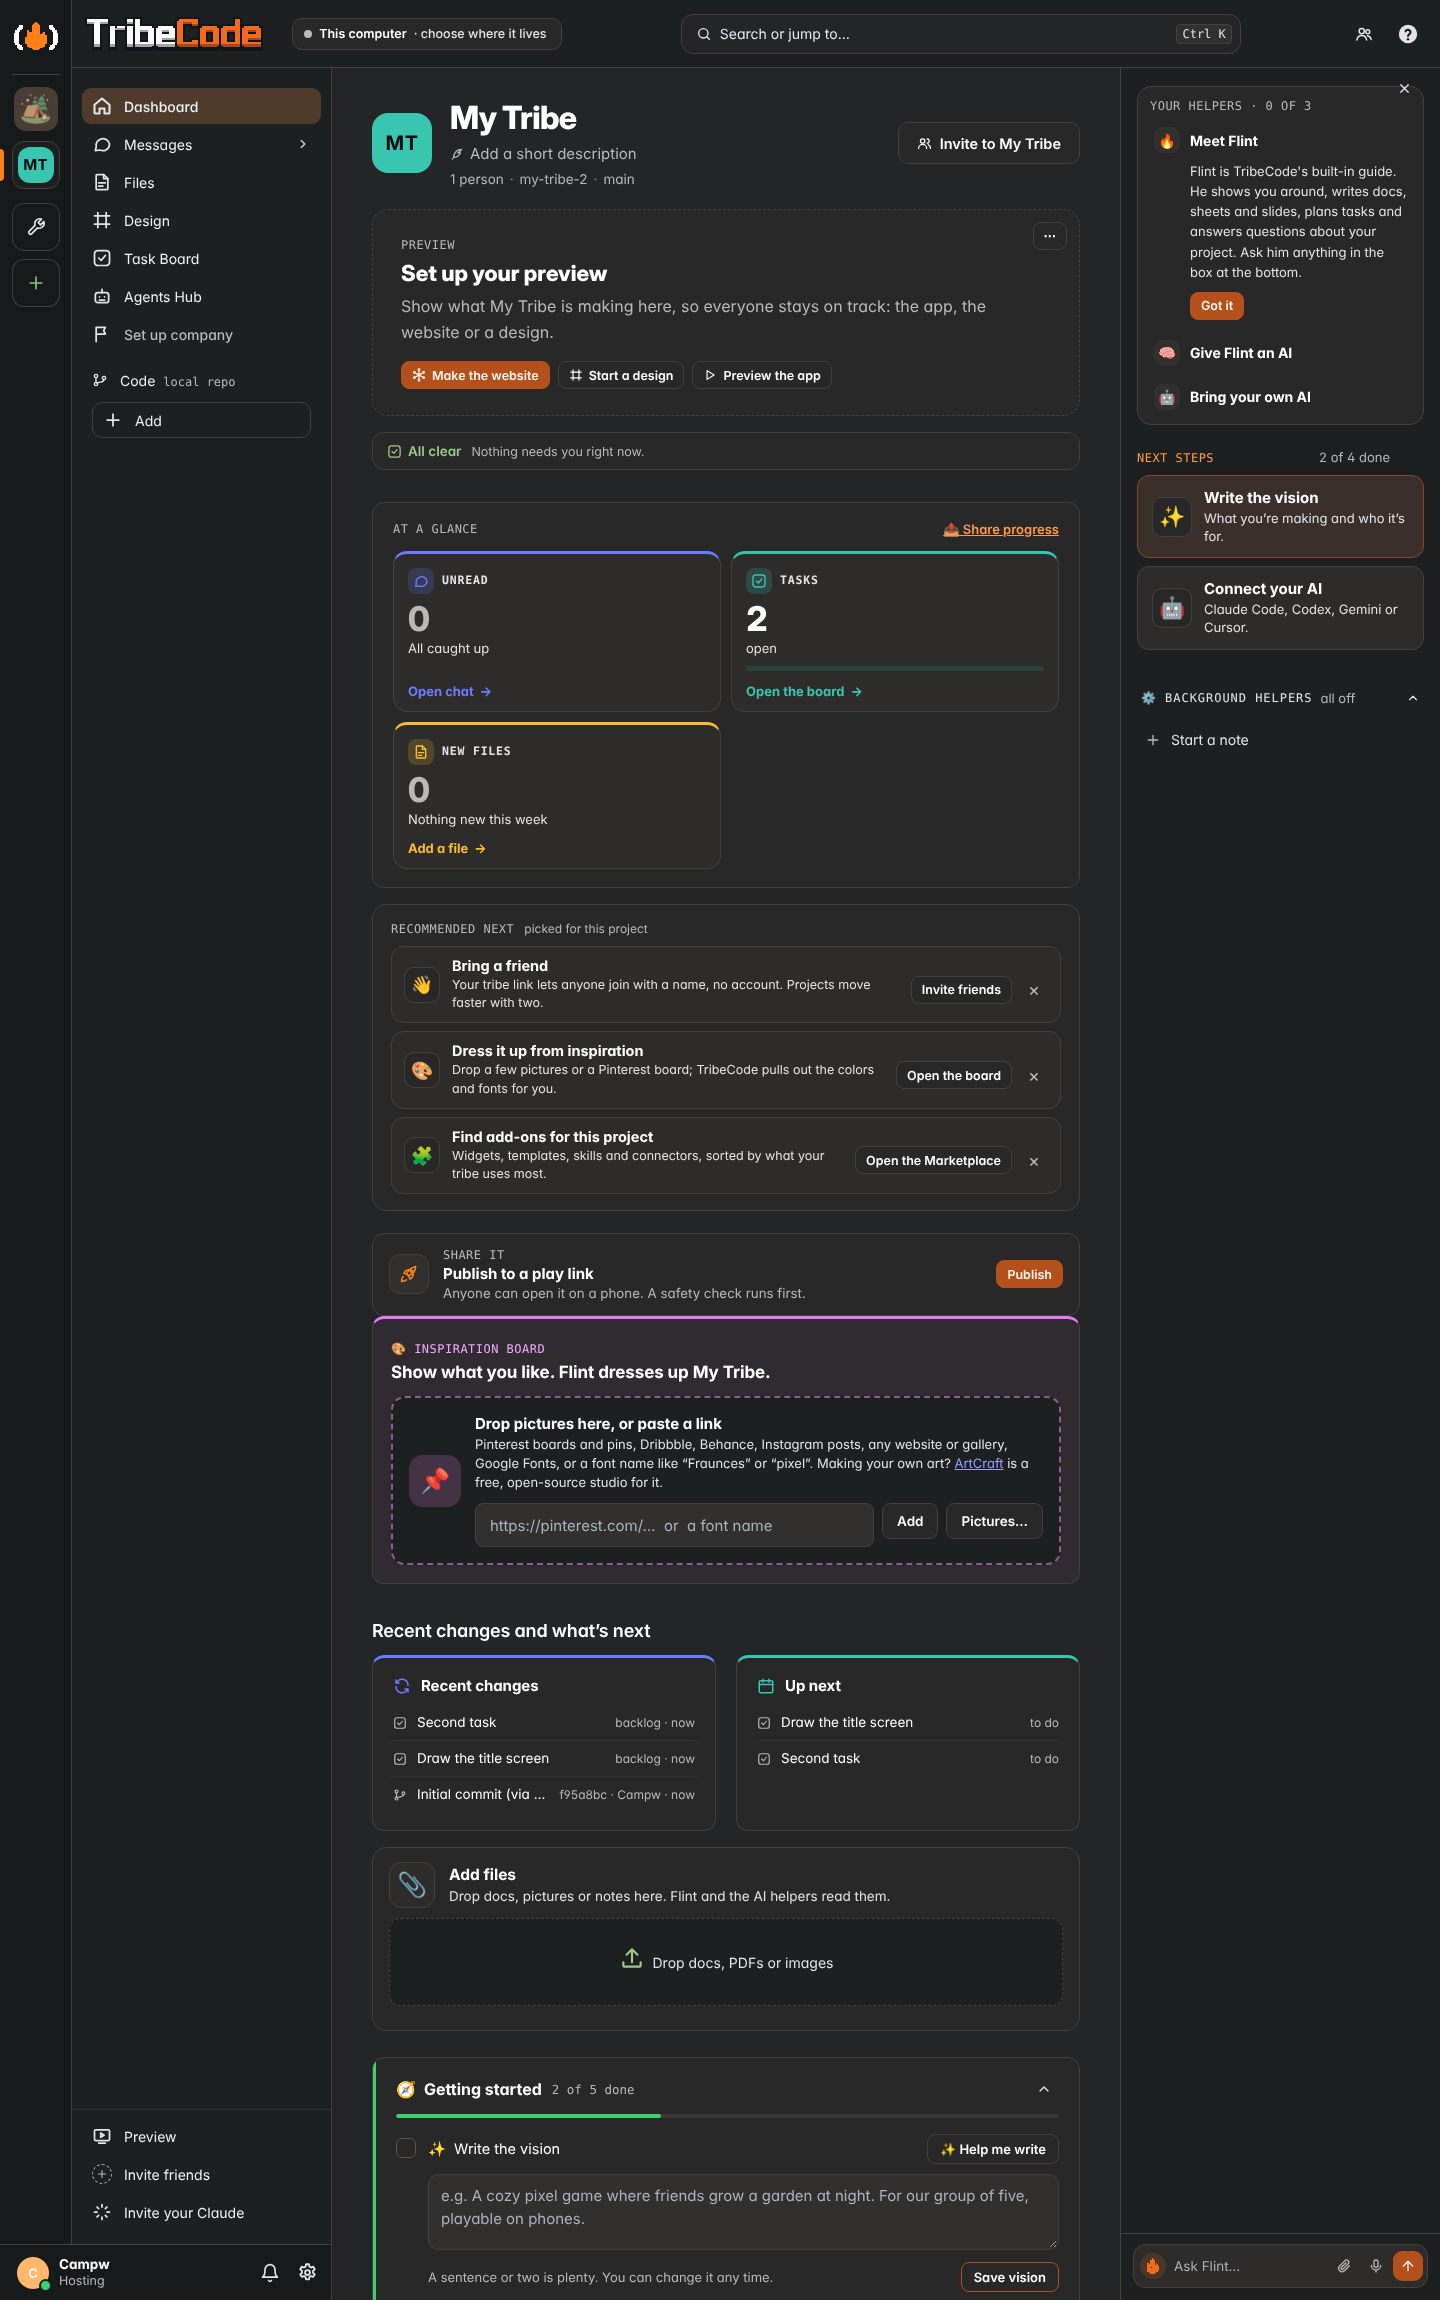
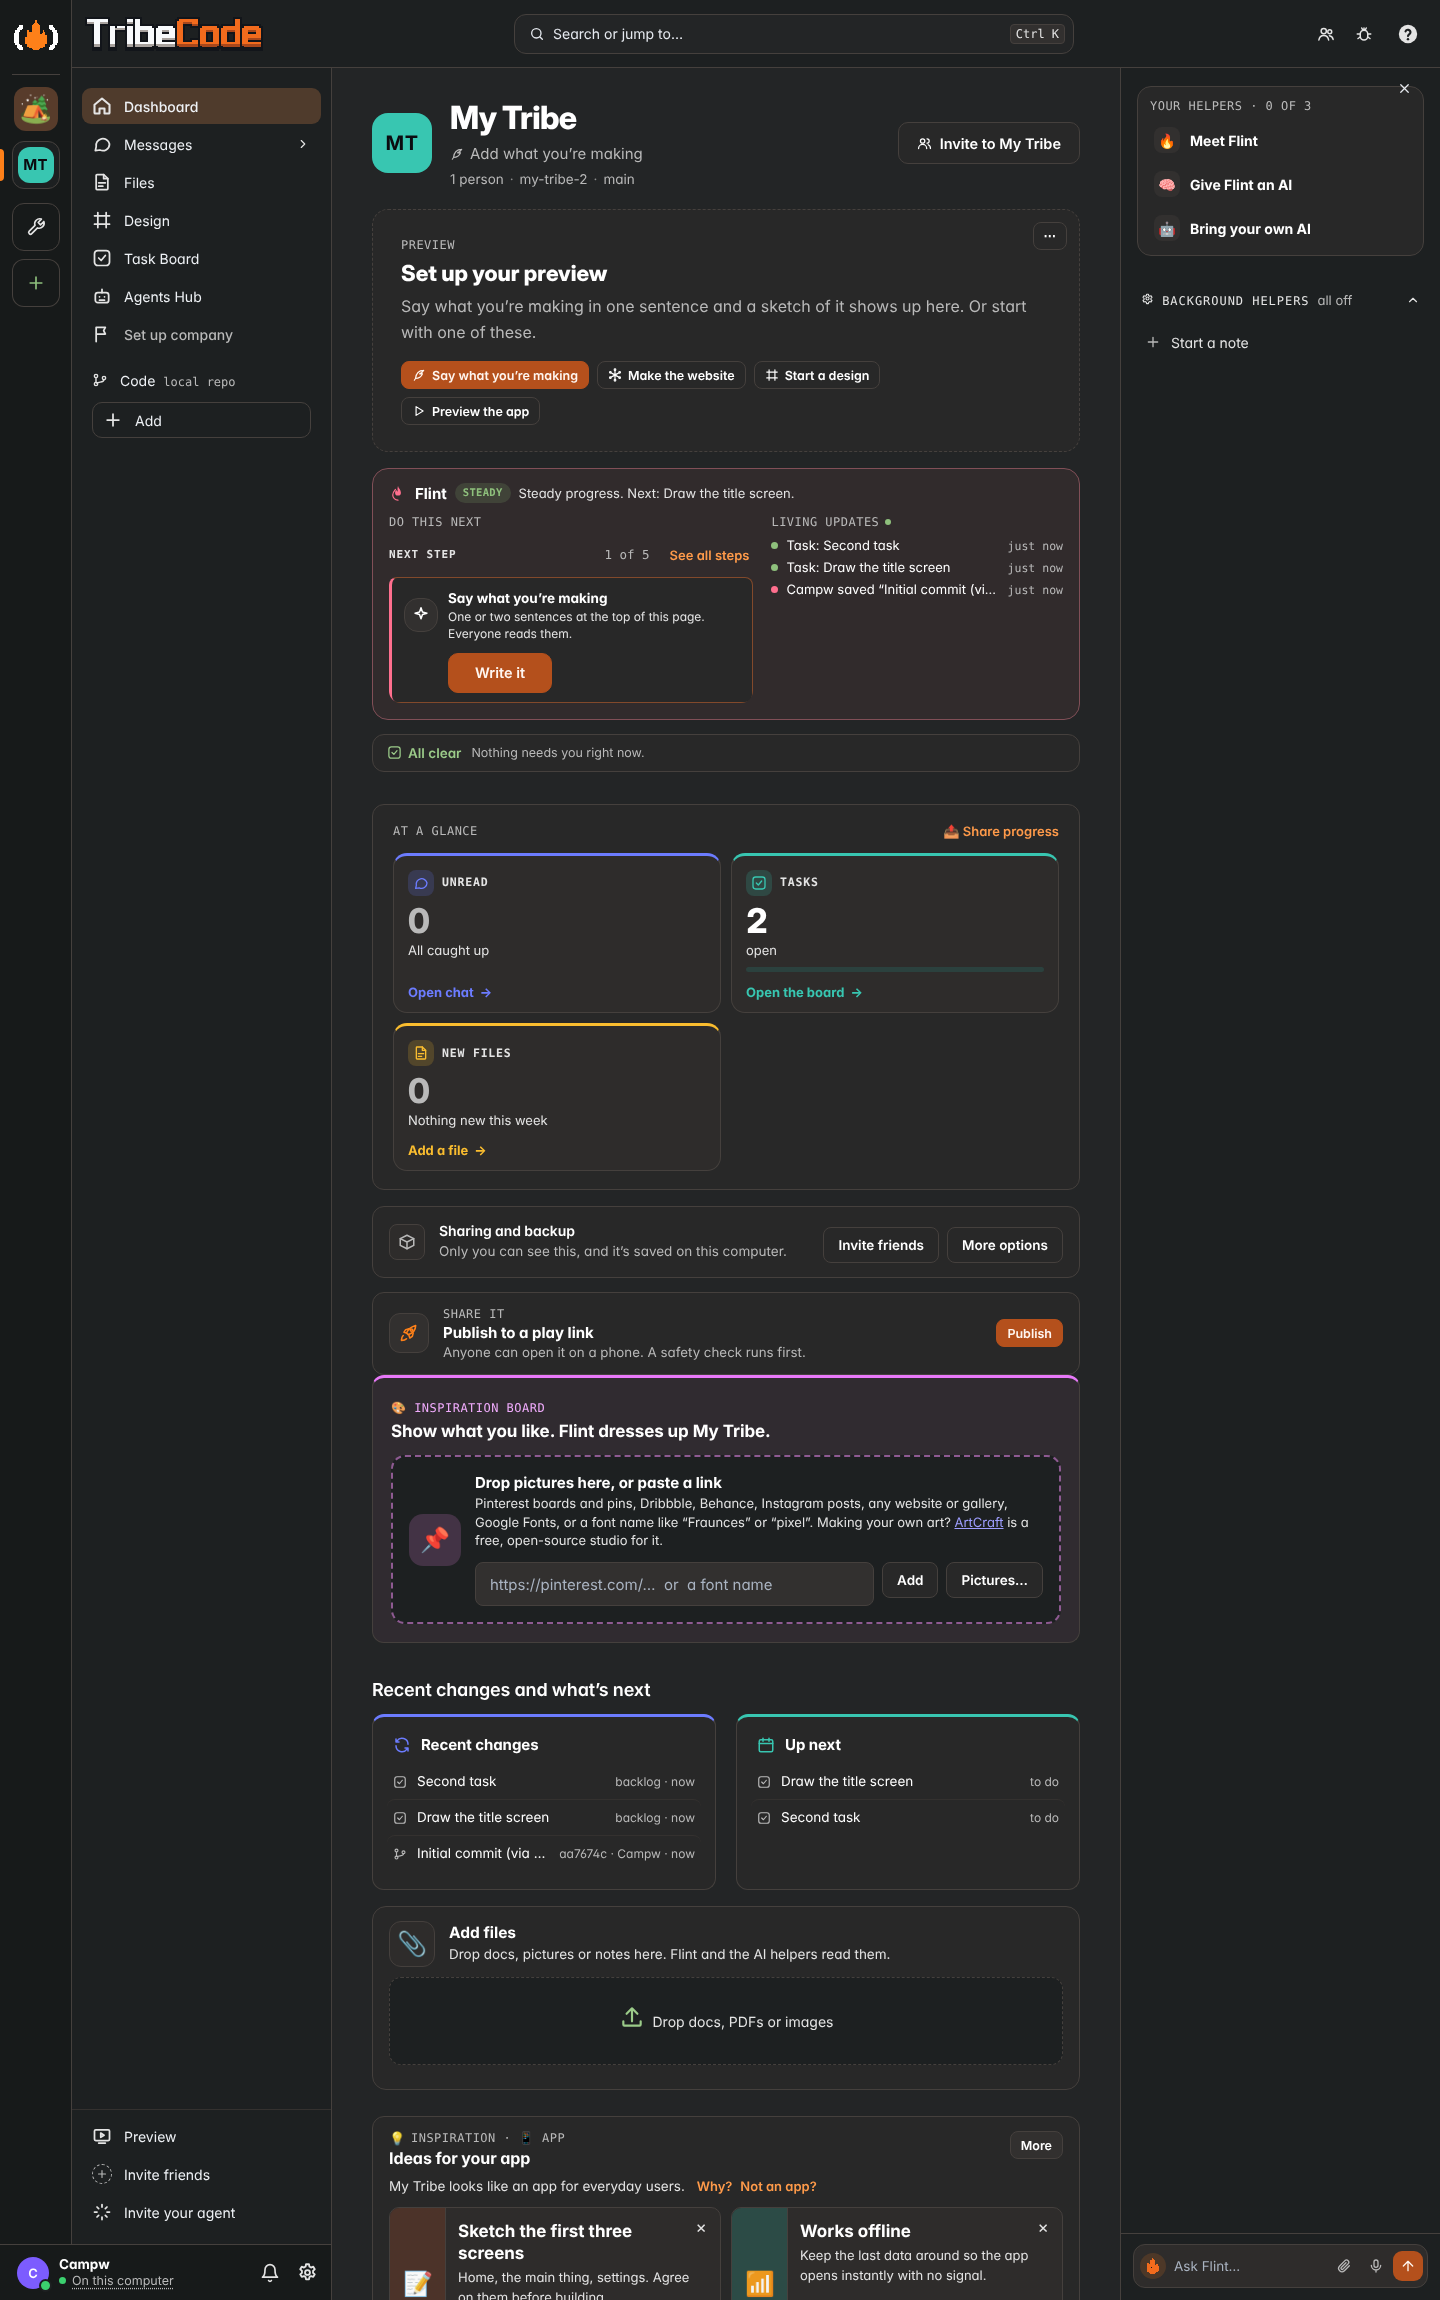
Living preview: the band test follows the tabs, the new test joins npm test
Claude-Session: https://claude.ai/code/session_01Twew38tmNVdwNycXqatzin

diff --git a/app/test/e2e_dash_preview.py b/app/test/e2e_dash_preview.py
@@ -2,7 +2,7 @@
 
 A tribe with four projects: Rocket (a repo with index.html, plus a website and a design), Bakery (a website and a
 design), Sketch (a design) and Blank (nothing). The band picks app, then website, then design, then "Set up your
-preview". A lead pins the main project from the ⋯ menu; Switch (App / Website / Design) changes what's shown; the app's
+preview". A lead pins the main project from the ⋯ menu; the tabs (App / Website / Design) change what's shown; the app's
 thumbnail is the cached screenshot (an <img>) and the live iframe only appears after a click. Needs attention for
 Maya (a builder) ranks a failing build, an approval, a task waiting for her Accept, an overdue task and website
 comments in that order, with one action each; Accept works from the row; Blank is "All clear". Home shows the band for
@@ -143,7 +143,7 @@ def main():
             pg.wait_for_function("(() => { const i = document.querySelector('#pj-band-slot img.db-shot'); return i && i.complete && i.naturalWidth > 0; })()", timeout=10000)
             assert pg.locator("#pj-band-slot .db-frame").count() == 0, "no iframe before interaction"
             txt = pg.inner_text("#pj-band-slot .db-strip")
-            assert "ROCKET" in txt.upper() and "App" in txt and "Open preview" in txt and "Open code" in txt and "Share link" in txt, txt
+            assert "ROCKET" in txt.upper() and "APP" in txt.upper() and "Open preview" in txt and "Open code" in txt and "Share link" in txt, txt
             pg.wait_for_timeout(1200)   # the overview settles; the band is kept, not reloaded
             assert pg.locator("#pj-band-slot .db-frame").count() == 0, "still no iframe without interaction"
             shot(pg, "dash-preview")
@@ -152,14 +152,14 @@ def main():
             src = pg.get_attribute("#pj-band-slot .db-frame", "src"); assert "/preview/" in src, src
             assert "allow-same-origin" not in pg.get_attribute("#pj-band-slot .db-frame", "sandbox")
 
-            # 4. Switch what's shown: App -> Website -> Design -> back to automatic
+            # 4. Tabs for what's shown: App -> Website -> Design -> back to automatic (living preview: real tabs, e2e_living_preview.py)
             pg.click("#pj-band-slot [data-show=site]")
             pg.wait_for_function("document.querySelector('#pj-band-slot .db-band').dataset.pick === 'site'", timeout=8000)
             assert "Rocket" in pg.inner_text("#pj-band-slot .db-site") and "Open designer" in pg.inner_text("#pj-band-slot .db-strip")
             pg.click("#pj-band-slot [data-show=design]")
             pg.wait_for_function("document.querySelector('#pj-band-slot .db-band').dataset.pick === 'design'", timeout=8000)
             assert pg.locator("#pj-band-slot .db-pic svg").count() == 1, "the design's own shapes"
-            assert api("/dash/band", token=mt, project=rocket)["band"]["pick"] == "design", "the switch is saved for the tribe"
+            assert api("/dash/band", token=mt, project=rocket)["band"]["pick"] == "app", "living preview: a tab is this device's choice; the tribe still sees the main app"
             pg.click("#pj-band-slot [data-db=more]"); pg.click(".db-menu [data-dbm=auto]")
             pg.wait_for_function("document.querySelector('#pj-band-slot .db-band').dataset.pick === 'app'", timeout=8000)
 
